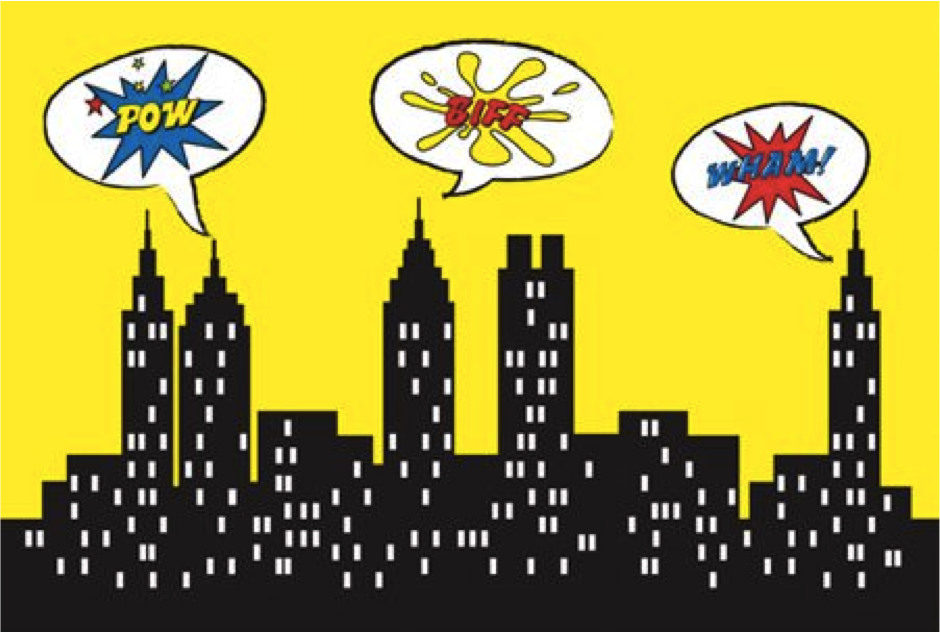
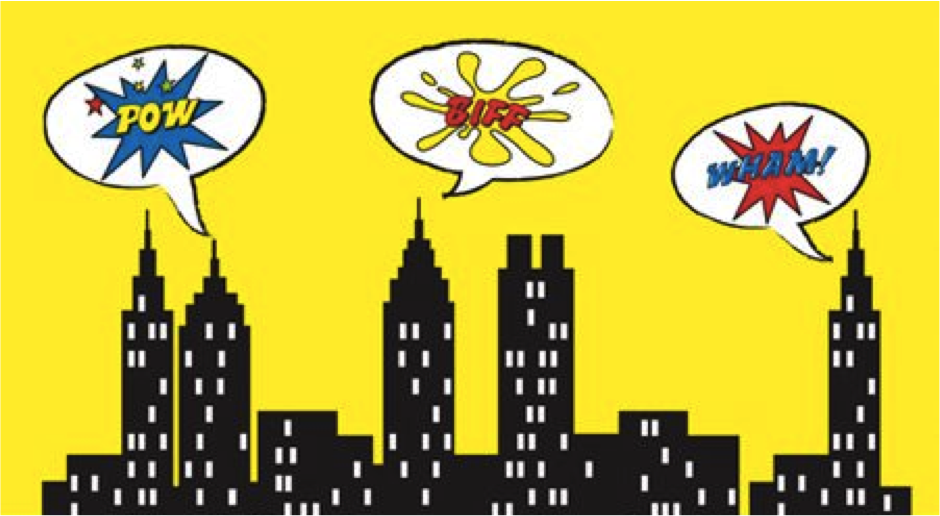
additional styling update for mobile responsiveness

diff --git a/public/style.css b/public/style.css
@@ -29,9 +29,12 @@ INDEX STYLING
 --------------------*/
 
 #homepage {
-  background-image: url("./images/homepage_background.png");
-  background-size: 100% 100%;
-  background-repeat: no-repeat;
+  height: 100%;
+  background: url("./images/homepage_background.png") no-repeat center center;
+  background-size: cover;
+  -webkit-background-size: cover;
+  -moz-background-size: cover;
+  -o-background-size: cover;
 }
 
 #welcome {
@@ -56,9 +59,12 @@ LOGIN STYLING
 --------------------*/
 
 #login {
-  background-image: url("http://helloiamphat.files.wordpress.com/2014/02/wham-bam-pow.jpg?w=696");
-    /*background-size: 100% 100%;
-    background-repeat: no-repeat;*/
+  height: 100%;
+  background: url("http://helloiamphat.files.wordpress.com/2014/02/wham-bam-pow.jpg?w=696") no-repeat center center;
+  background-size: cover;
+  -webkit-background-size: cover;
+  -moz-background-size: cover;
+  -o-background-size: cover;
 }
 
 #TTAMSignIn, #guestSignIn {
@@ -114,9 +120,12 @@ LOGIN STYLING
 GUEST STYLING
 --------------------*/
 #guestLogin {
-  background-image: url("https://littledeanbean.files.wordpress.com/2014/03/noahsuperhero4bdayinvitefinal2-11.jpg");
-  background-size: 100% 100%;
-  background-repeat: no-repeat;
+  height: 100%;
+  background: url("./images/guest_background.png") no-repeat center center;
+  background-size: cover;
+  -webkit-background-size: cover;
+  -moz-background-size: cover;
+  -o-background-size: cover;
 }
 
 .guest {
@@ -126,8 +135,8 @@ GUEST STYLING
   margin-top: 60px;
   margin-left: auto;
   margin-right: auto;
+  margin-bottom: 20px;
   text-align: center;
-  padding-bottom: 50px;
   font-size: 16px;
   border-radius: 25px;
 }
@@ -424,12 +433,12 @@ MOBILE STYLING
 @media only screen and (max-device-width: 480px) {
 
   /*HOMEPAGE*/
-  #homepage {
+  /*#homepage {
     background-size: auto;
     background-repeat: no-repeat;
     background-position: center;
-    background-attachment: fixed;
-  }
+  }*/
+
   /*GUEST LOGIN*/
   #guestLogin {
     background-color: blue;
